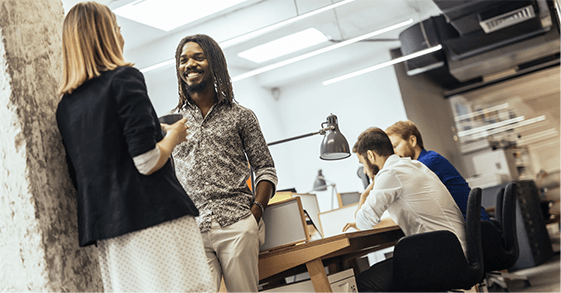
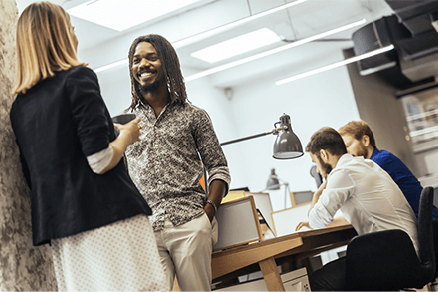
added team page

diff --git a/team/index.html b/team/index.html
@@ -1,0 +1,65 @@
+---
+layout: default
+title: Team
+pageClass: team
+hero:
+  small-title: About us
+  title: Team
+  description: >
+    Lorem ipsum dolor sit amet, elit consectetur adipisicing elit, sed
+    do eiusmod tempor incididunt ut labore et dolore magna aliqua.
+---
+{% include partials/hero.html %}
+
+<div class="team-content">
+  <div class="container">
+    <div class="row">
+      <div class="col-xs-24">
+        <h2 class="title text-center">A passionate, smart team</h2>
+      </div>
+    </div>
+    <div class="row">
+      <div class="col-xs-9 col-xs-offset-1 col-md-7 col-md-offset-0">
+        <div class="team-1"></div>
+      </div>
+      <div class="col-xs-13 col-md-10">
+        <div class="team-2"></div>
+      </div>
+      <div class="clearfix visible-xs-block"></div>
+      <div class="col-xs-24 col-md-7">
+        <blockquote class="twitter-tweet" data-lang="en">
+          <a href="https://twitter.com/screeningONE" target="_blank" class="name">@screeningONE</a>
+          <p lang="en" dir="ltr">
+            Employee Retention How to Retain Employees
+            <a href="https://twitter.com/WSJ">@wsj</a>
+            <a href="https://twitter.com/hashtag/hiring?src=hash">#hiring</a>
+            <a href="https://twitter.com/hashtag/companygrowth?src=hash">#companygrowth</a>
+            <a href="http://t.co/Wq3LSYibgp">http://t.co/Wq3LSYibgp</a>
+          </p>
+          <a href="https://twitter.com/screeningONE/status/379751420330647552" target="_blank" class="dateline">September 16, 2013</a>
+        </blockquote>
+      </div>
+    </div>
+    <div class="row counter">
+      <div class="col-xs-12 col-md-6">
+        <div class="number">12</div>
+        <div class="type">people</div>
+      </div>
+      <div class="col-xs-12 col-md-6">
+        <div class="number">1251</div>
+        <div class="type">users</div>
+      </div>
+      <div class="clearfix hidden-md hidden-lg"></div>
+      <div class="col-xs-12 col-md-6">
+        <div class="number">54,987</div>
+        <div class="type">searches</div>
+      </div>
+      <div class="col-xs-12 col-md-6">
+        <div class="number">4,300</div>
+        <div class="type">followers</div>
+      </div>
+    </div>
+  </div>
+</div>
+
+{% include partials/get-started-cta-square.html %}

diff --git a/_includes/footer.html b/_includes/footer.html
@@ -27,8 +27,8 @@
       <div class="col-xs-24 col-sm-11 col-md-4">
         <h2>Company</h2>
         <a href="{{ site.baseurl }}/faqs/">FAQs</a>
-        <a href="#">Team</a>
-        <a href="#">Sitemap</a>
+        <a href="{{ site.baseurl }}/team/">Team</a>
+        <a href="{{ site.baseurl }}//">Sitemap</a>
       </div>
       <div class="col-xs-24 col-sm-11 col-sm-offset-2 col-md-7 col-md-offset-0">
         <h2>Resources</h2>
